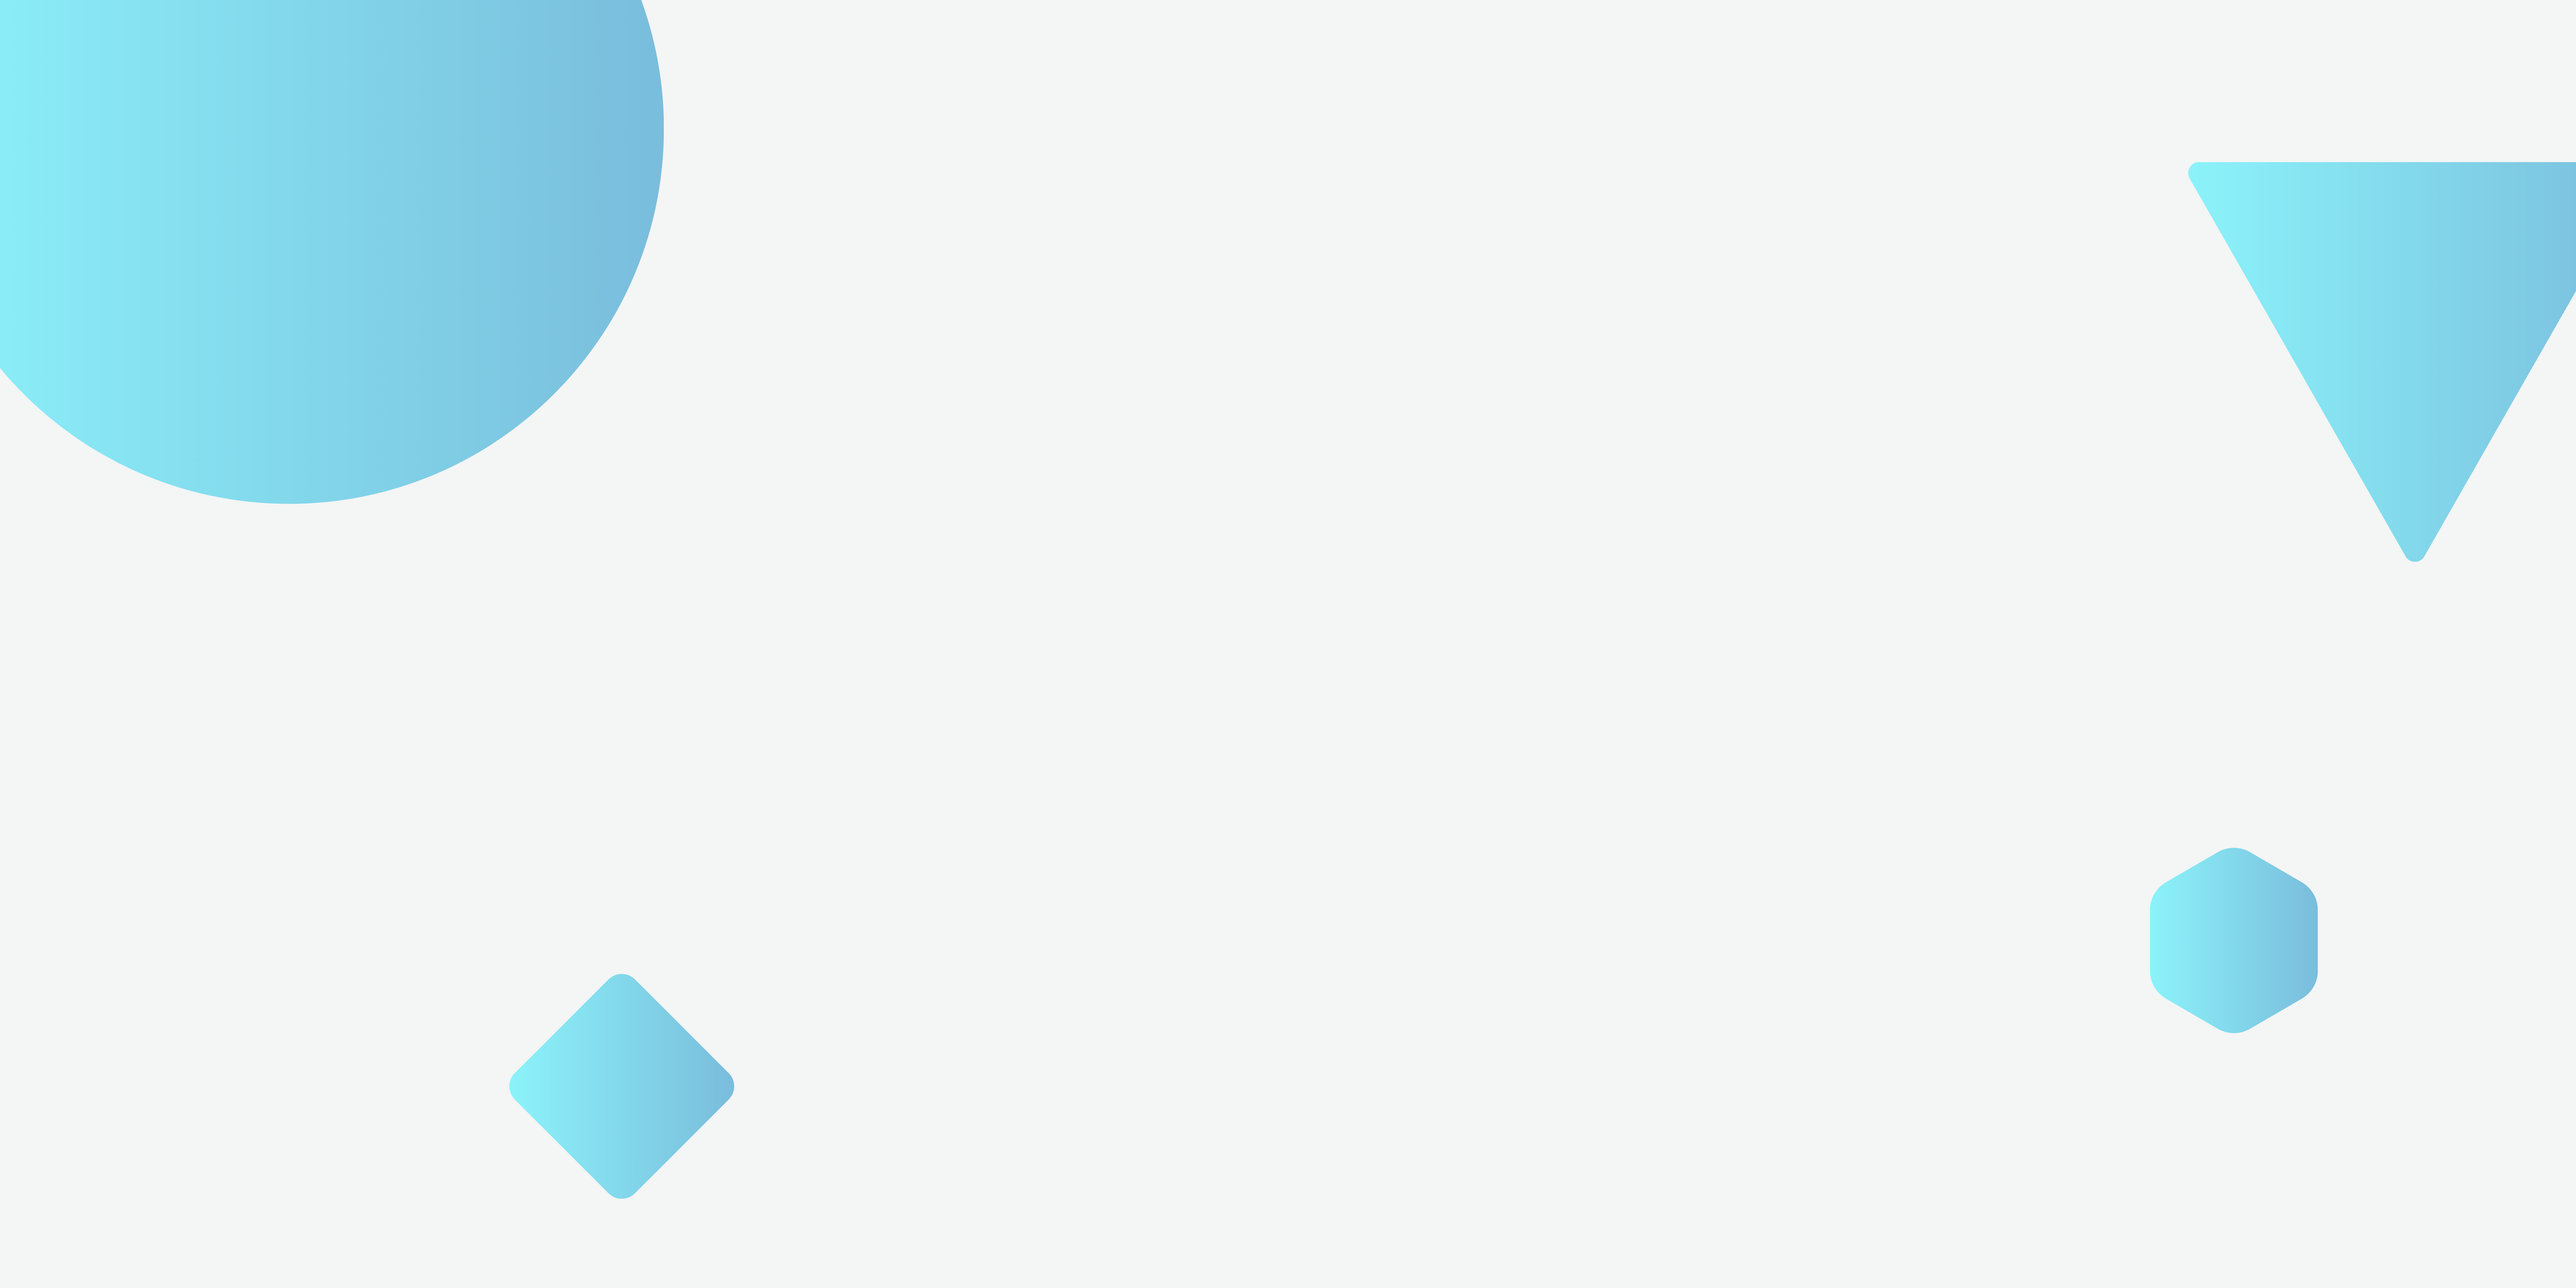
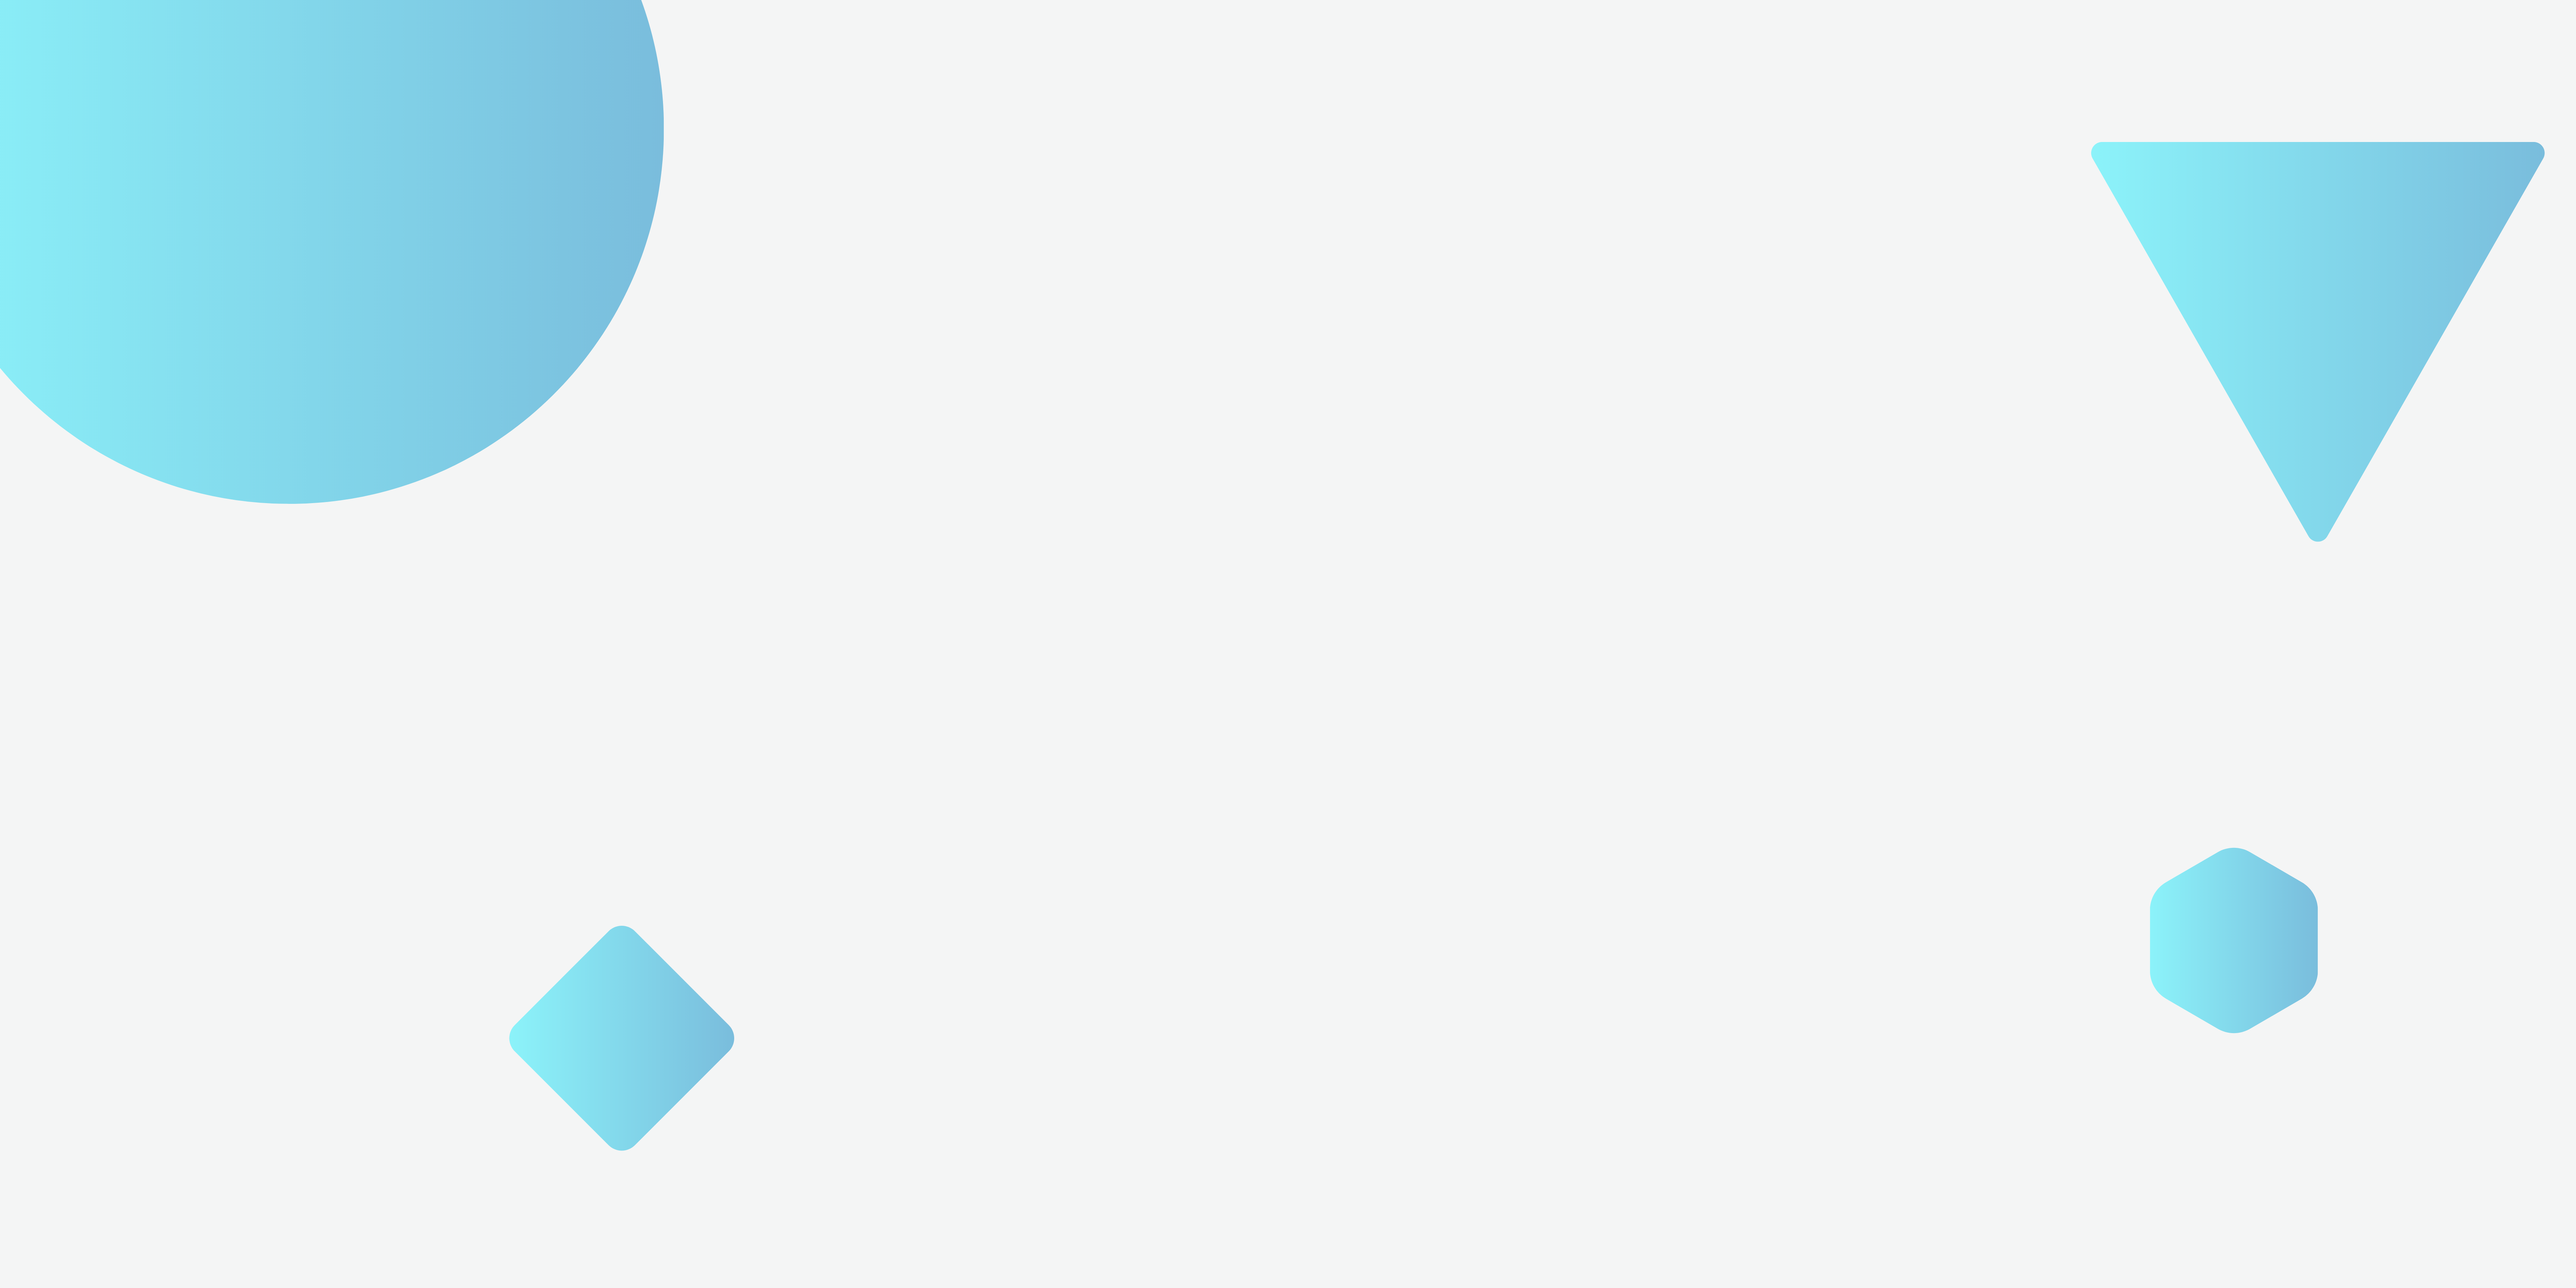
edited background image

Changed region(s): [[0.8125, 0.0938, 1.0, 0.4375], [0.1875, 0.7188, 0.2812, 0.9375]]

diff --git a/src/components/Intro.module.css b/src/components/Intro.module.css
@@ -7,7 +7,7 @@
     height: 100vh;
     background-color: var(--quinary-color);
     background-image: url("/src/images/backgroundportfolio.png");
-    background-position: 0 80px;
+    background-position: 0 30px;
     background-repeat: no-repeat;
     background-size: contain;
 }
@@ -47,6 +47,7 @@ h1 {
         transform: translateY(0);
     }
 }
+
 @media screen and (max-width: 768px) {
     h1 {
         font-size: 2.5em;

diff --git a/src/components/Contact.module.css b/src/components/Contact.module.css
@@ -2,7 +2,7 @@
     padding-bottom: 6em;
     background-color: var(--quinary-color);
     background-image: url("/src/images/backgroundportfolioalter.png");
-    background-position: 0 20px;
+    background-position: top center;
     background-repeat: no-repeat;
     background-size: contain;
 }
